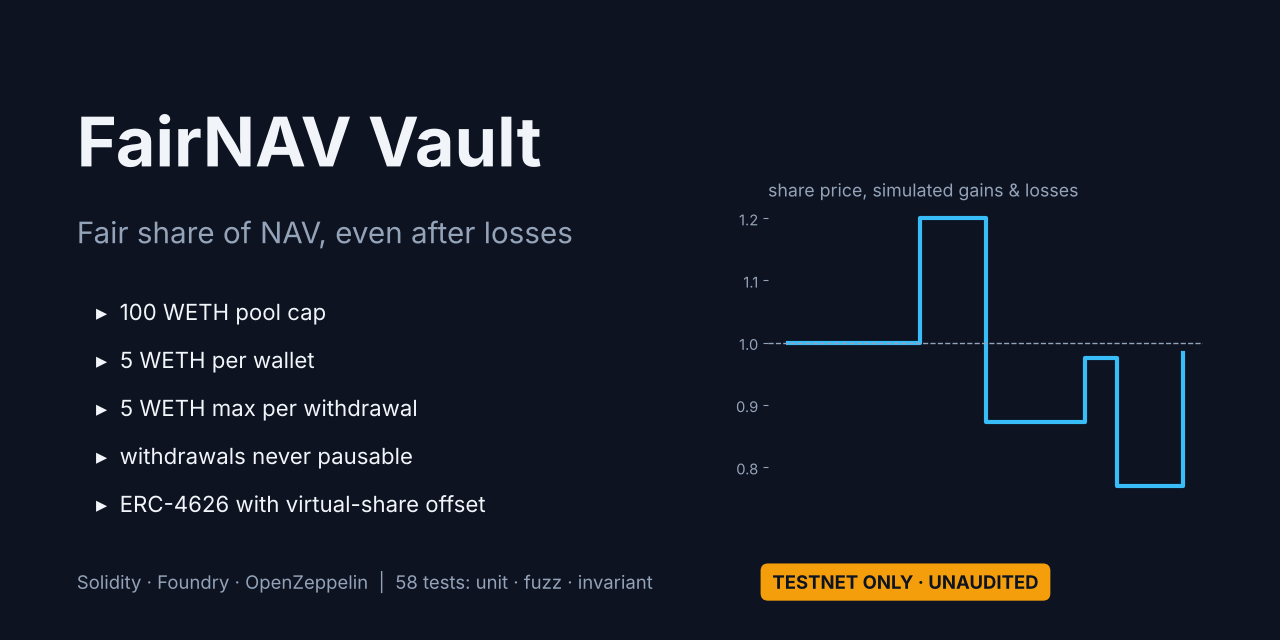
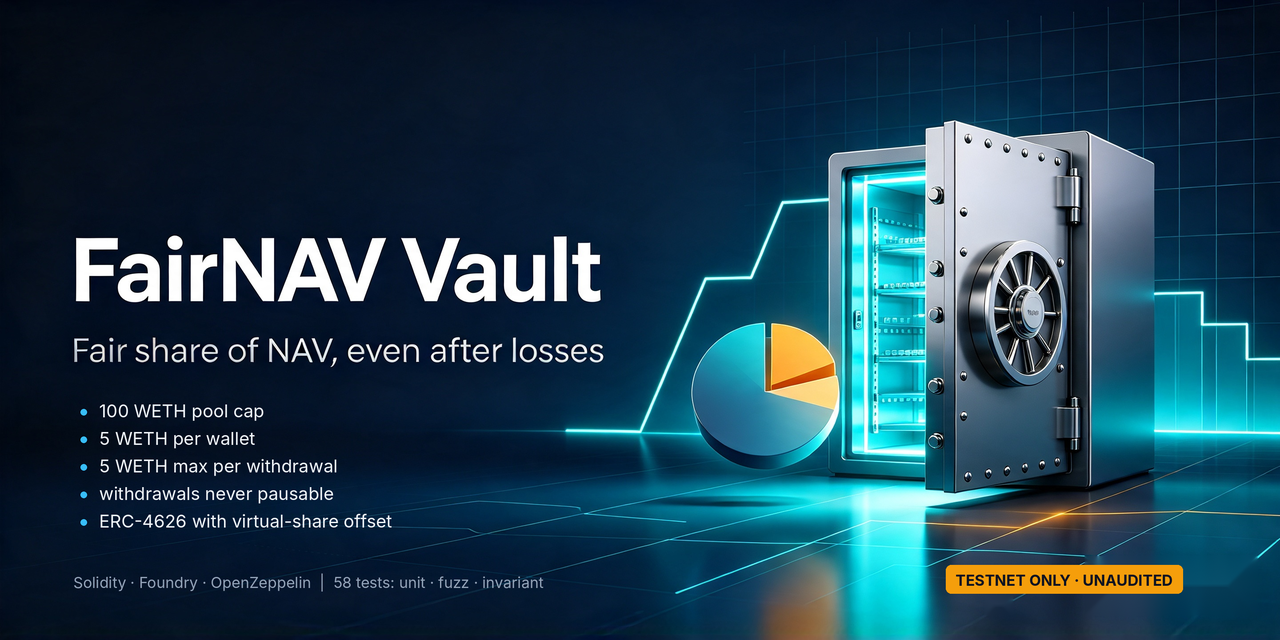
Replace cover and social preview with the new vault artwork

diff --git a/README.md b/README.md
@@ -1,4 +1,4 @@
-![FairNAV Vault](assets/cover.png)
+![FairNAV Vault](assets/cover.png?v=2)
 
 # FairNAV Vault
 
